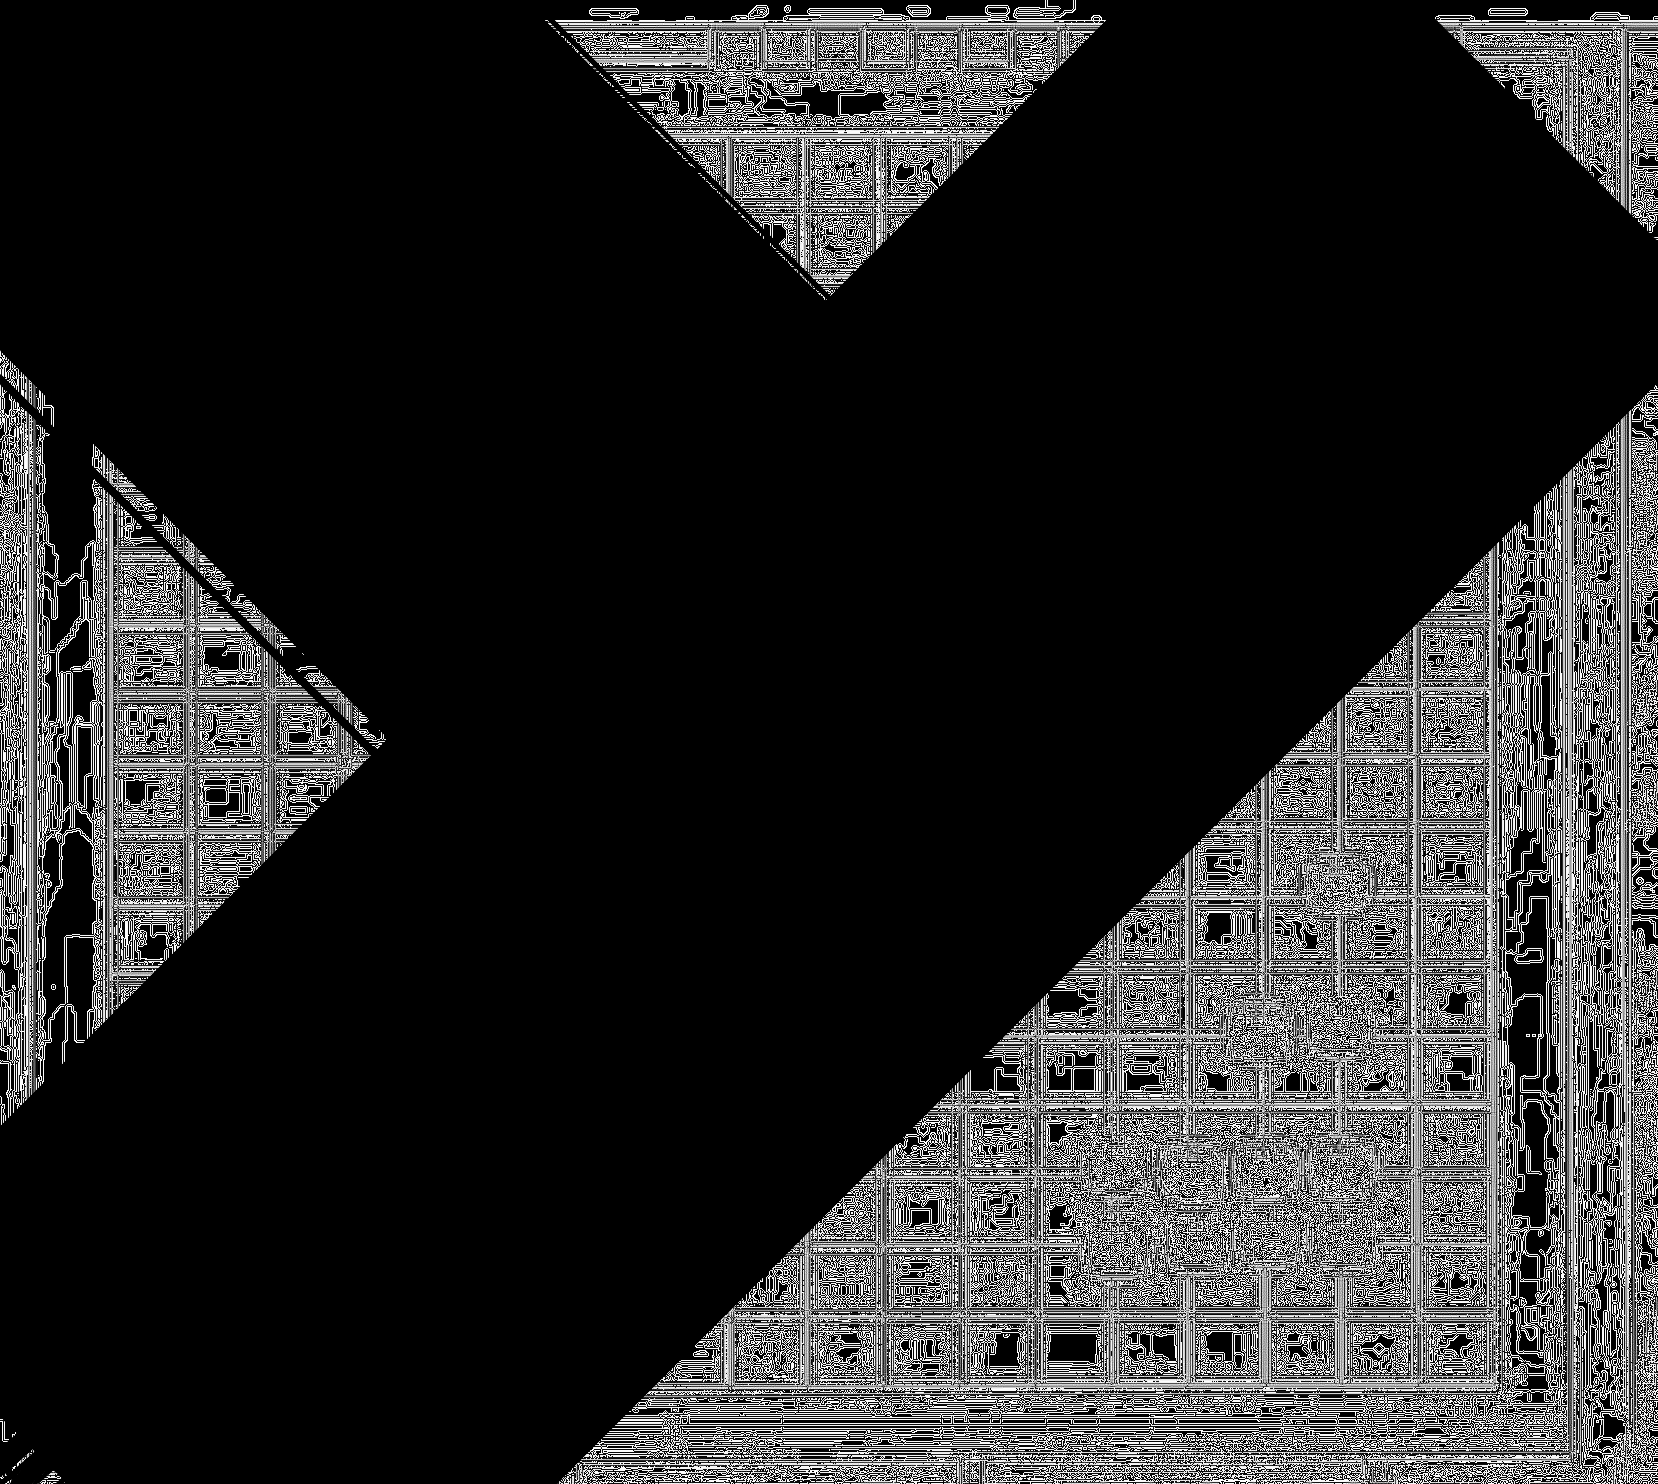
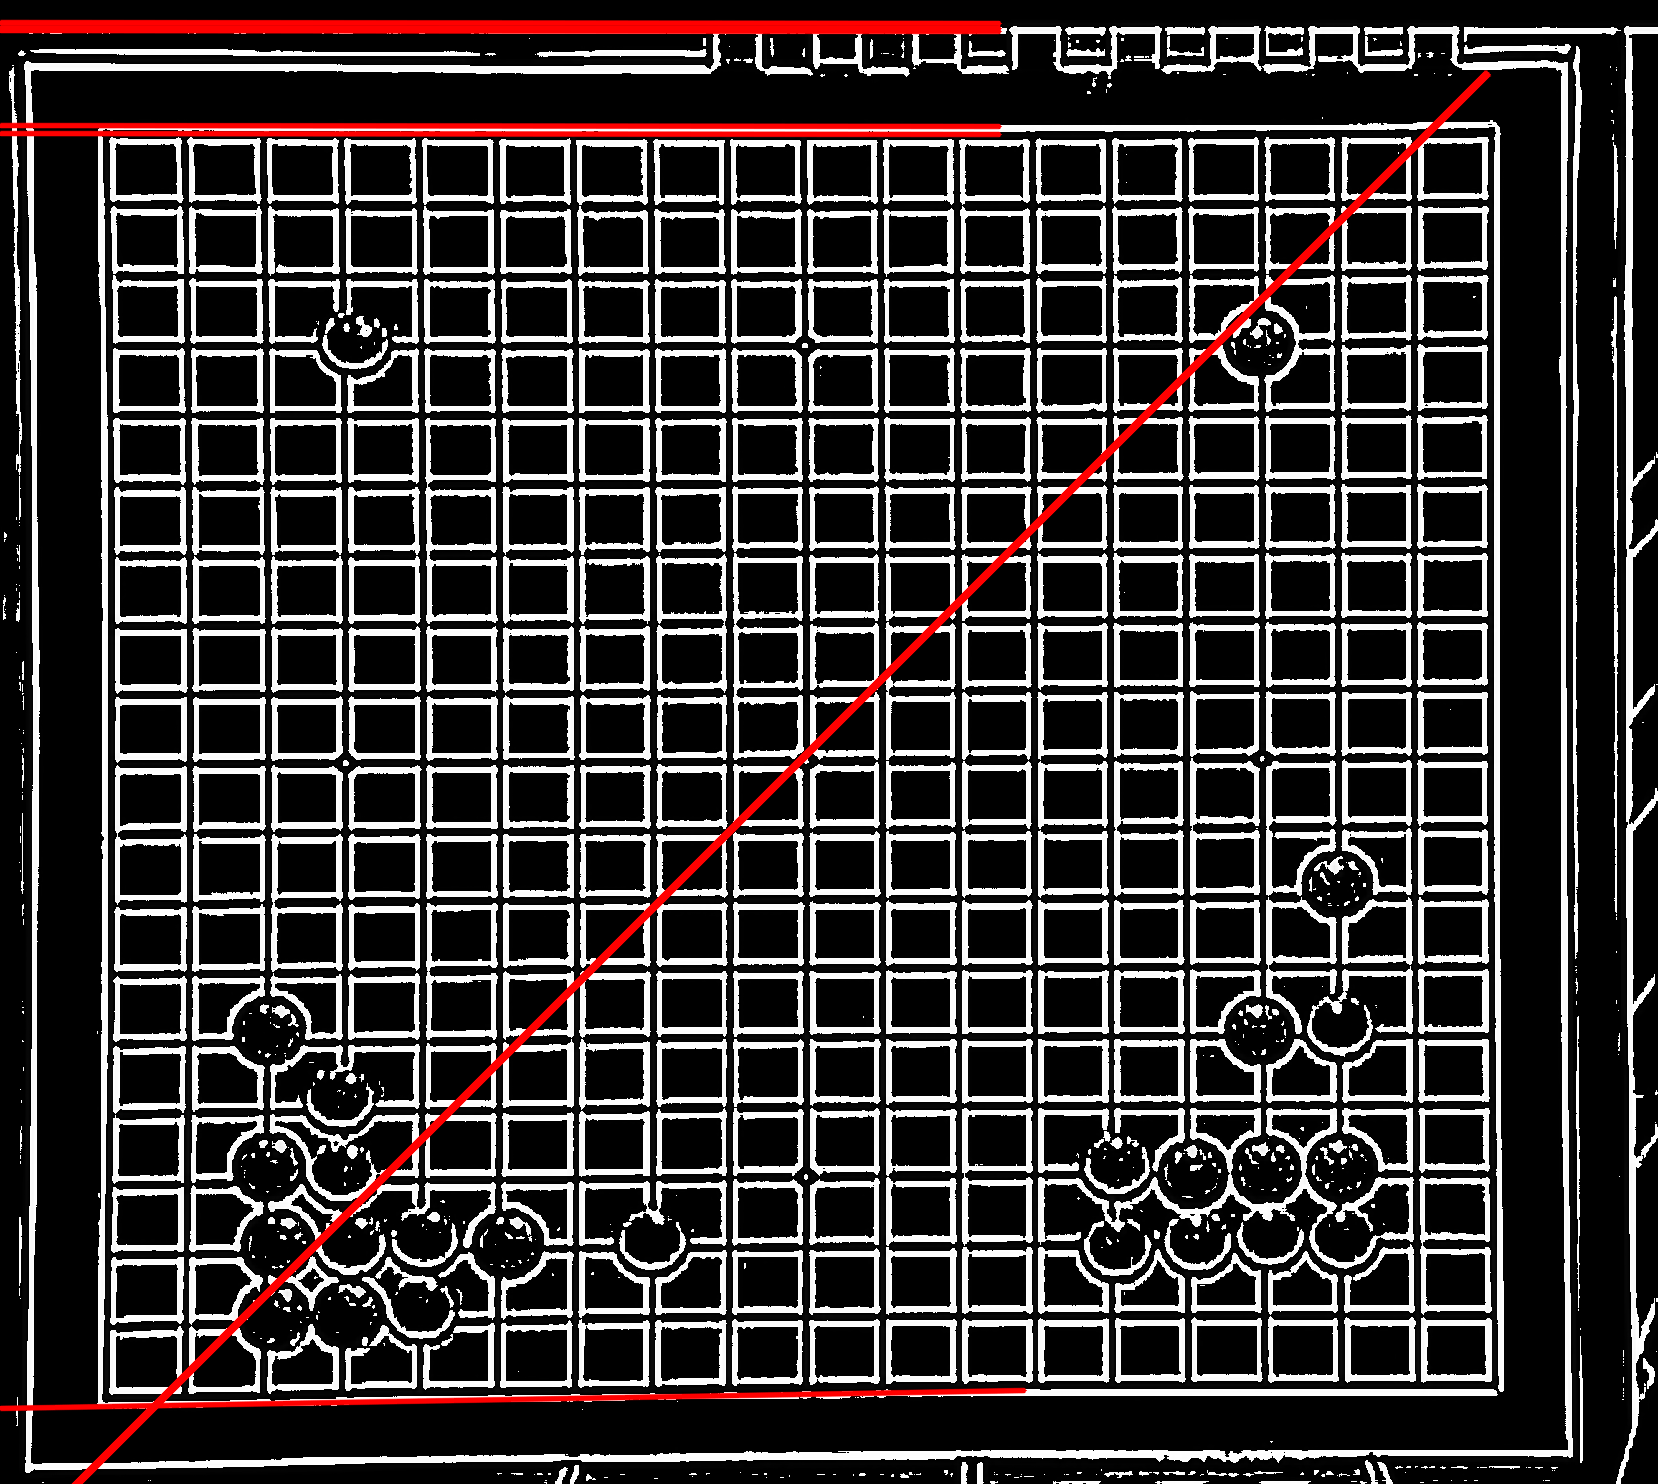
fixed hough problem

diff --git a/BoardRecognition/image_processing.py b/BoardRecognition/image_processing.py
@@ -16,39 +16,34 @@ class PreProcessImage:
         # transform into gray scale
         gray = cv2.cvtColor(image, cv2.COLOR_BGR2GRAY).astype(np.float64)
 
+        # The Laplacian of Gaussian (LoG) Method
+        blurred = cv2.GaussianBlur(gray, (5, 5), 3)
+        utils.writeImage(blurred, "blurred.png")
+
         # Laplace operator for edge detection to reduce noices
-        laplacian = cv2.filter2D(gray,self.ddepth,self.laplace_kernal, borderType=cv2.BORDER_REFLECT)
-        utils.writeImage(laplacian,"laplace.png")
+        laplacian = cv2.filter2D(blurred, self.ddepth, self.laplace_kernal, borderType=cv2.BORDER_REFLECT)
+        utils.writeImage(laplacian, "laplace.png")
 
-        # high-pass filter
-        hpf = cv2.filter2D(laplacian,self.ddepth,self.kernal,borderType=cv2.BORDER_REFLECT)
-        utils.writeImage(hpf,"hpf.png")
-
-        blurred = cv2.GaussianBlur(laplacian,(21,21),3)
-        utils.writeImage(blurred,"blurred.png")
-
-        high_pass = laplacian - blurred + 127
-        utils.writeImage(high_pass,"high_pass.png")
         #return image after preprocessing
-        return high_pass.astype(np.uint8)
-
-        laplacian = cv2.filter2D(gray,-1,self.laplace_kernal, borderType=cv2.BORDER_REFLECT)
-        utils.writeImage(laplacian,"laplace.png")
-
-        # high-pass filter
-        hpf = cv2.filter2D(laplacian,-1,self.kernal,borderType=cv2.BORDER_REFLECT)
-        utils.writeImage(hpf,"hpf.png")
-        #return image after preprocessing
-        return hpf.astype(np.uint8)
-
+        return laplacian.astype(np.uint8)
+        
 class BoardRecognition:
     def __init__(self):
         pass
 
     def findFourCorners(self, img):
-        lines = cv2.HoughLines(img,1, np.pi/180,2000)
-        utils.writeImageWithLines(img,lines,"find four corners lines.png")
-        pass
+        ### tried HoughLines but not work well but use HoughlineP is work better, do not know why
+        # lines = cv2.HoughLines(img,1, np.pi/180.0,200)
+        # utils.writeImageWithLines(img,lines,"find four corners lines.png")
+
+        # find lines
+        lines = cv2.HoughLinesP(img,1, np.pi/180.0,150,minLineLength=100,maxLineGap=10)
+        utils.writeImageWithLineSegments(img,lines,"find four corners line using points.png")
+
+        corners = []
+        # find coners
+
+        return corners
 
     def findCentral(self, corners):
         pass

diff --git a/BoardRecognition/utils.py b/BoardRecognition/utils.py
@@ -3,7 +3,6 @@ import os
 import cv2
 from matplotlib import pyplot as plt
 import numpy as np
-import math
 
 
 def visulization(images = None, title=None):
@@ -39,21 +38,38 @@ def writeImage(image, name):
 def writeImageWithLines(image, lines, name):
     path = "./data/result"
     output = image.copy()
-<<<<<<< HEAD
     output = cv2.cvtColor(output.astype(np.uint8), cv2.COLOR_GRAY2BGR)
-=======
->>>>>>> 2f3b45b75c610909f2e9962d29027987a6dd4b96
     if not os.path.exists(path):
         os.makedirs(path)
     if lines is not None:
-        for r_theta in lines:
+        # Sort safety: slice to ONLY take the top 8 strongest lines
+        strongest_lines = lines[:8]
+        for r_theta in strongest_lines:
             arr = np.array(r_theta[0], dtype=np.float64)
             rho , theta = arr
-            a = math.cos(theta)
-            b = math.sin(theta)
+            a = np.cos(theta)
+            b = np.sin(theta)
             x0 = a * rho
             y0 = b * rho
             pt1 = (int(x0 + 1000 * (-b)), int(y0 + 1000 * (a)))
             pt2 = (int(x0 - 1000 * (-b)), int(y0 - 1000 * (a)))
             cv2.line(output, pt1, pt2, (0, 0, 255), 3, cv2.LINE_AA)
-    cv2.imwrite(os.path.join(path, name), img= output.astype(np.uint8))
+    cv2.imwrite(os.path.join(path, name), img= output)
+
+
+def writeImageWithLineSegments(image, lines, name):
+    path = "./data/result"
+    output = image.copy()
+    if len(output.shape) == 2:  # Check if it's grayscale
+        output = cv2.cvtColor(output.astype(np.uint8), cv2.COLOR_GRAY2BGR)
+
+    if not os.path.exists(path):
+        os.makedirs(path)
+
+    if lines is not None:
+        for line in lines:
+            # HoughLinesP returns direct x,y coordinates for start and end points
+            x1, y1, x2, y2 = line[0]
+            cv2.line(output, (x1, y1), (x2, y2), (0, 0, 255), 3, cv2.LINE_AA)
+
+    cv2.imwrite(os.path.join(path, name), img=output)
